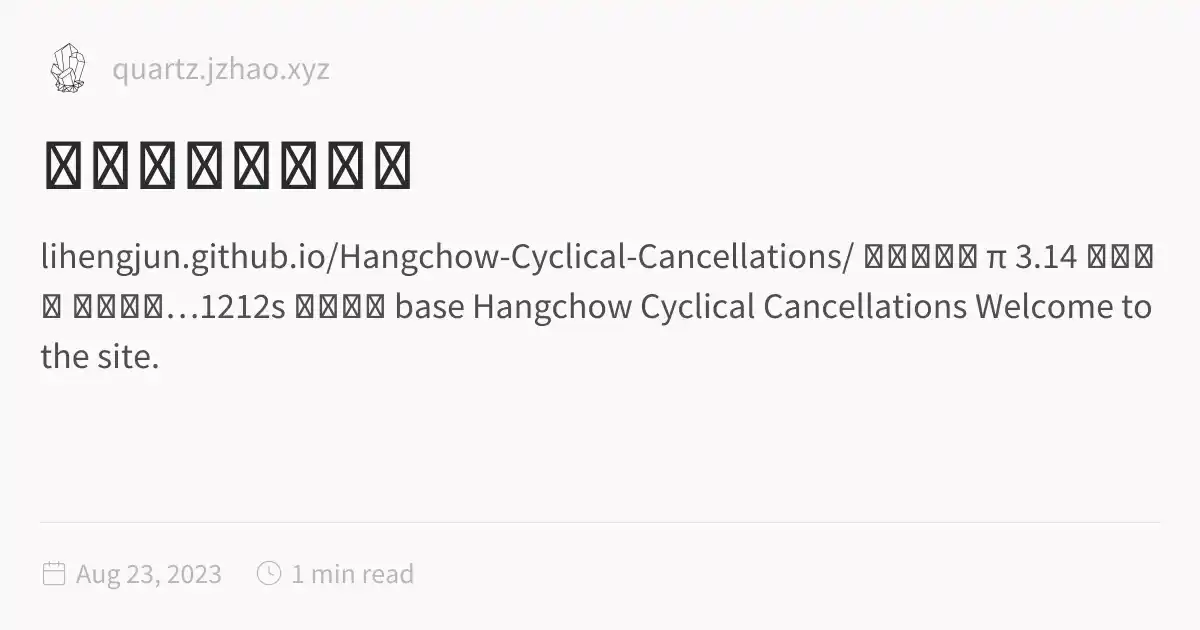
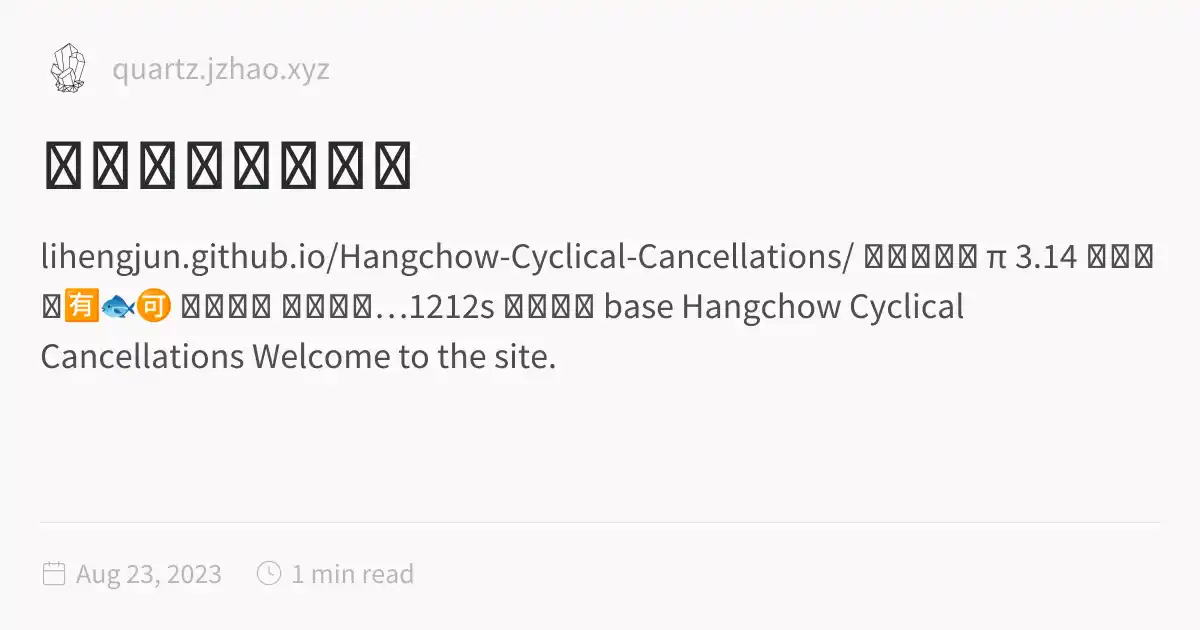
deploy: lihengjun/my-obsidian-vault@a6b90987f63130667abe0f8928368d07dbeae214

Changed region(s): [[0.0308, 0.4524, 0.9558, 0.5127], [0.0308, 0.5429, 0.4625, 0.6032]]

diff --git a/news/index.html b/news/index.html
@@ -116,6 +116,6 @@ pre:hover > .expand-button {
   padding: 0 12px;
   font-size: 14px;
 }
[2 lines of base64/hex data omitted]
 </script><script type="module">function f(i,e){if(!i)return;function r(o){o.target===this&&(o.preventDefault(),o.stopPropagation(),e())}function t(o){o.key.startsWith("Esc")&&(o.preventDefault(),e())}i?.addEventListener("click",r),window.addCleanup(()=>i?.removeEventListener("click",r)),document.addEventListener("keydown",t),window.addCleanup(()=>document.removeEventListener("keydown",t))}function y(i){for(;i.firstChild;)i.removeChild(i.firstChild)}var h=class{constructor(e,r){this.container=e;this.content=r;this.setupEventListeners(),this.setupNavigationControls(),this.resetTransform()}isDragging=!1;startPan={x:0,y:0};currentPan={x:0,y:0};scale=1;MIN_SCALE=.5;MAX_SCALE=3;cleanups=[];setupEventListeners(){let e=this.onMouseDown.bind(this),r=this.onMouseMove.bind(this),t=this.onMouseUp.bind(this),o=this.resetTransform.bind(this);this.container.addEventListener("mousedown",e),document.addEventListener("mousemove",r),document.addEventListener("mouseup",t),window.addEventListener("resize",o),this.cleanups.push(()=>this.container.removeEventListener("mousedown",e),()=>document.removeEventListener("mousemove",r),()=>document.removeEventListener("mouseup",t),()=>window.removeEventListener("resize",o))}cleanup(){for(let e of this.cleanups)e()}setupNavigationControls(){let e=document.createElement("div");e.className="mermaid-controls";let r=this.createButton("+",()=>this.zoom(.1)),t=this.createButton("-",()=>this.zoom(-.1)),o=this.createButton("Reset",()=>this.resetTransform());e.appendChild(t),e.appendChild(o),e.appendChild(r),this.container.appendChild(e)}createButton(e,r){let t=document.createElement("button");return t.textContent=e,t.className="mermaid-control-button",t.addEventListener("click",r),window.addCleanup(()=>t.removeEventListener("click",r)),t}onMouseDown(e){e.button===0&&(this.isDragging=!0,this.startPan={x:e.clientX-this.currentPan.x,y:e.clientY-this.currentPan.y},this.container.style.cursor="grabbing")}onMouseMove(e){this.isDragging&&(e.preventDefault(),this.currentPan={x:e.clientX-this.startPan.x,y:e.clientY-this.startPan.y},this.updateTransform())}onMouseUp(){this.isDragging=!1,this.container.style.cursor="grab"}zoom(e){let r=Math.min(Math.max(this.scale+e,this.MIN_SCALE),this.MAX_SCALE),t=this.content.getBoundingClientRect(),o=t.width/2,n=t.height/2,c=r-this.scale;this.currentPan.x-=o*c,this.currentPan.y-=n*c,this.scale=r,this.updateTransform()}updateTransform(){this.content.style.transform=`translate(${this.currentPan.x}px, ${this.currentPan.y}px) scale(${this.scale})`}resetTransform(){this.scale=1;let e=this.content.querySelector("svg");this.currentPan={x:e.getBoundingClientRect().width/2,y:e.getBoundingClientRect().height/2},this.updateTransform()}},C=["--secondary","--tertiary","--gray","--light","--lightgray","--highlight","--dark","--darkgray","--codeFont"],E;document.addEventListener("nav",async()=>{let e=document.querySelector(".center").querySelectorAll("code.mermaid");if(e.length===0)return;E||=await import("https://cdnjs.cloudflare.com/ajax/libs/mermaid/11.4.0/mermaid.esm.min.mjs");let r=E.default,t=new WeakMap;for(let n of e)t.set(n,n.innerText);async function o(){for(let s of e){s.removeAttribute("data-processed");let a=t.get(s);a&&(s.innerHTML=a)}let n=C.reduce((s,a)=>(s[a]=window.getComputedStyle(document.documentElement).getPropertyValue(a),s),{}),c=document.documentElement.getAttribute("saved-theme")==="dark";r.initialize({startOnLoad:!1,securityLevel:"loose",theme:c?"dark":"base",themeVariables:{fontFamily:n["--codeFont"],primaryColor:n["--light"],primaryTextColor:n["--darkgray"],primaryBorderColor:n["--tertiary"],lineColor:n["--darkgray"],secondaryColor:n["--secondary"],tertiaryColor:n["--tertiary"],clusterBkg:n["--light"],edgeLabelBackground:n["--highlight"]}}),await r.run({nodes:e})}await o(),document.addEventListener("themechange",o),window.addCleanup(()=>document.removeEventListener("themechange",o));for(let n=0;n<e.length;n++){let v=function(){let g=l.querySelector("#mermaid-space"),m=l.querySelector(".mermaid-content");if(!m)return;y(m);let w=c.querySelector("svg").cloneNode(!0);m.appendChild(w),l.classList.add("active"),g.style.cursor="grab",u=new h(g,m)},M=function(){l.classList.remove("active"),u?.cleanup(),u=null},c=e[n],s=c.parentElement,a=s.querySelector(".clipboard-button"),d=s.querySelector(".expand-button"),p=window.getComputedStyle(a),L=a.offsetWidth+parseFloat(p.marginLeft||"0")+parseFloat(p.marginRight||"0");d.style.right=`calc(${L}px + 0.3rem)`,s.prepend(d);let l=s.querySelector("#mermaid-container");if(!l)return;let u=null;d.addEventListener("click",v),f(l,M),window.addCleanup(()=>{u?.cleanup(),d.removeEventListener("click",v)})}});
 </script><script src="https://cdn.jsdelivr.net/npm/katex@0.16.11/dist/contrib/copy-tex.min.js" type="application/javascript"></script><script src="../postscript.js" type="module"></script></html>

diff --git a/other.html b/other.html
@@ -116,7 +116,7 @@ pre:hover > .expand-button {
   padding: 0 12px;
   font-size: 14px;
 }
[2 lines of base64/hex data omitted]
                 s-3.542,0.634-4.898,1.688l-7.669-7.669C16.785,10.424,17,9.74,17,9c0-2.206-1.794-4-4-4S9,6.794,9,9s1.794,4,4,4
                 c0.74,0,1.424-0.215,2.019-0.567l7.669,7.669C21.634,21.458,21,23.154,21,25s0.634,3.542,1.688,4.897L10.024,42.562
                 C8.958,41.595,7.549,41,6,41c-3.309,0-6,2.691-6,6s2.691,6,6,6s6-2.691,6-6c0-1.035-0.263-2.009-0.726-2.86l12.829-12.829

diff --git a/index.html b/index.html
@@ -1,5 +1,5 @@
 <!DOCTYPE html>
-<html lang="en"><head><title>杭州城幹支戳蓃集</title><meta charset="utf-8"/><link rel="preconnect" href="https://fonts.googleapis.com"/><link rel="preconnect" href="https://fonts.gstatic.com"/><link rel="stylesheet" href="https://fonts.googleapis.com/css2?family=Schibsted Grotesk:wght@400;700&amp;family=Source Sans Pro:ital,wght@0,400;0,600;1,400;1,600&amp;family=IBM Plex Mono:wght@400;600&amp;display=swap"/><link rel="preconnect" href="https://cdnjs.cloudflare.com" crossorigin="anonymous"/><meta name="viewport" content="width=device-width, initial-scale=1.0"/><meta name="og:site_name" content="Quartz 4"/><meta property="og:title" content="杭州城幹支戳蓃集"/><meta property="og:type" content="website"/><meta name="twitter:card" content="summary_large_image"/><meta name="twitter:title" content="杭州城幹支戳蓃集"/><meta name="twitter:description" content="lihengjun.github.io/Hangchow-Cyclical-Cancellations/ 天涯浮生录 π 3.14 内容标题 你的内容…1212s 编辑内容 base Hangchow Cyclical Cancellations Welcome to the site."/><meta property="og:description" content="lihengjun.github.io/Hangchow-Cyclical-Cancellations/ 天涯浮生录 π 3.14 内容标题 你的内容…1212s 编辑内容 base Hangchow Cyclical Cancellations Welcome to the site."/><meta property="og:image:alt" content="lihengjun.github.io/Hangchow-Cyclical-Cancellations/ 天涯浮生录 π 3.14 内容标题 你的内容…1212s 编辑内容 base Hangchow Cyclical Cancellations Welcome to the site."/><meta property="twitter:domain" content="quartz.jzhao.xyz"/><meta property="og:url" content="https://quartz.jzhao.xyz/index"/><meta property="twitter:url" content="https://quartz.jzhao.xyz/index"/><link rel="icon" href="./static/icon.png"/><meta name="description" content="lihengjun.github.io/Hangchow-Cyclical-Cancellations/ 天涯浮生录 π 3.14 内容标题 你的内容…1212s 编辑内容 base Hangchow Cyclical Cancellations Welcome to the site."/><meta name="generator" content="Quartz"/><link href="./index.css" rel="stylesheet" type="text/css" spa-preserve/><style>.expand-button {
+<html lang="en"><head><title>杭州城幹支戳蓃集</title><meta charset="utf-8"/><link rel="preconnect" href="https://fonts.googleapis.com"/><link rel="preconnect" href="https://fonts.gstatic.com"/><link rel="stylesheet" href="https://fonts.googleapis.com/css2?family=Schibsted Grotesk:wght@400;700&amp;family=Source Sans Pro:ital,wght@0,400;0,600;1,400;1,600&amp;family=IBM Plex Mono:wght@400;600&amp;display=swap"/><link rel="preconnect" href="https://cdnjs.cloudflare.com" crossorigin="anonymous"/><meta name="viewport" content="width=device-width, initial-scale=1.0"/><meta name="og:site_name" content="Quartz 4"/><meta property="og:title" content="杭州城幹支戳蓃集"/><meta property="og:type" content="website"/><meta name="twitter:card" content="summary_large_image"/><meta name="twitter:title" content="杭州城幹支戳蓃集"/><meta name="twitter:description" content="lihengjun.github.io/Hangchow-Cyclical-Cancellations/ 天涯浮生录 π 3.14 从来没有🈶🐟🉑 内容标题 你的内容…1212s 编辑内容 base Hangchow Cyclical Cancellations Welcome to the site."/><meta property="og:description" content="lihengjun.github.io/Hangchow-Cyclical-Cancellations/ 天涯浮生录 π 3.14 从来没有🈶🐟🉑 内容标题 你的内容…1212s 编辑内容 base Hangchow Cyclical Cancellations Welcome to the site."/><meta property="og:image:alt" content="lihengjun.github.io/Hangchow-Cyclical-Cancellations/ 天涯浮生录 π 3.14 从来没有🈶🐟🉑 内容标题 你的内容…1212s 编辑内容 base Hangchow Cyclical Cancellations Welcome to the site."/><meta property="twitter:domain" content="quartz.jzhao.xyz"/><meta property="og:url" content="https://quartz.jzhao.xyz/index"/><meta property="twitter:url" content="https://quartz.jzhao.xyz/index"/><link rel="icon" href="./static/icon.png"/><meta name="description" content="lihengjun.github.io/Hangchow-Cyclical-Cancellations/ 天涯浮生录 π 3.14 从来没有🈶🐟🉑 内容标题 你的内容…1212s 编辑内容 base Hangchow Cyclical Cancellations Welcome to the site."/><meta name="generator" content="Quartz"/><link href="./index.css" rel="stylesheet" type="text/css" spa-preserve/><style>.expand-button {
   position: absolute;
   display: flex;
   float: right;
@@ -119,6 +119,7 @@ pre:hover > .expand-button {
[1 lines of base64/hex data omitted]
 <p>天涯浮生录</p>
 <p>π 3.14</p>
+<p>从来没有🈶🐟🉑</p>
 <h1 id="内容标题">内容标题<a role="anchor" aria-hidden="true" tabindex="-1" data-no-popover="true" href="#内容标题" class="internal"><svg width="18" height="18" viewBox="0 0 24 24" fill="none" stroke="currentColor" stroke-width="2" stroke-linecap="round" stroke-linejoin="round"><path d="M10 13a5 5 0 0 0 7.54.54l3-3a5 5 0 0 0-7.07-7.07l-1.72 1.71"></path><path d="M14 11a5 5 0 0 0-7.54-.54l-3 3a5 5 0 0 0 7.07 7.07l1.71-1.71"></path></svg></a></h1>
 <p>你的内容…1212s</p>
 <p>编辑内容</p>
